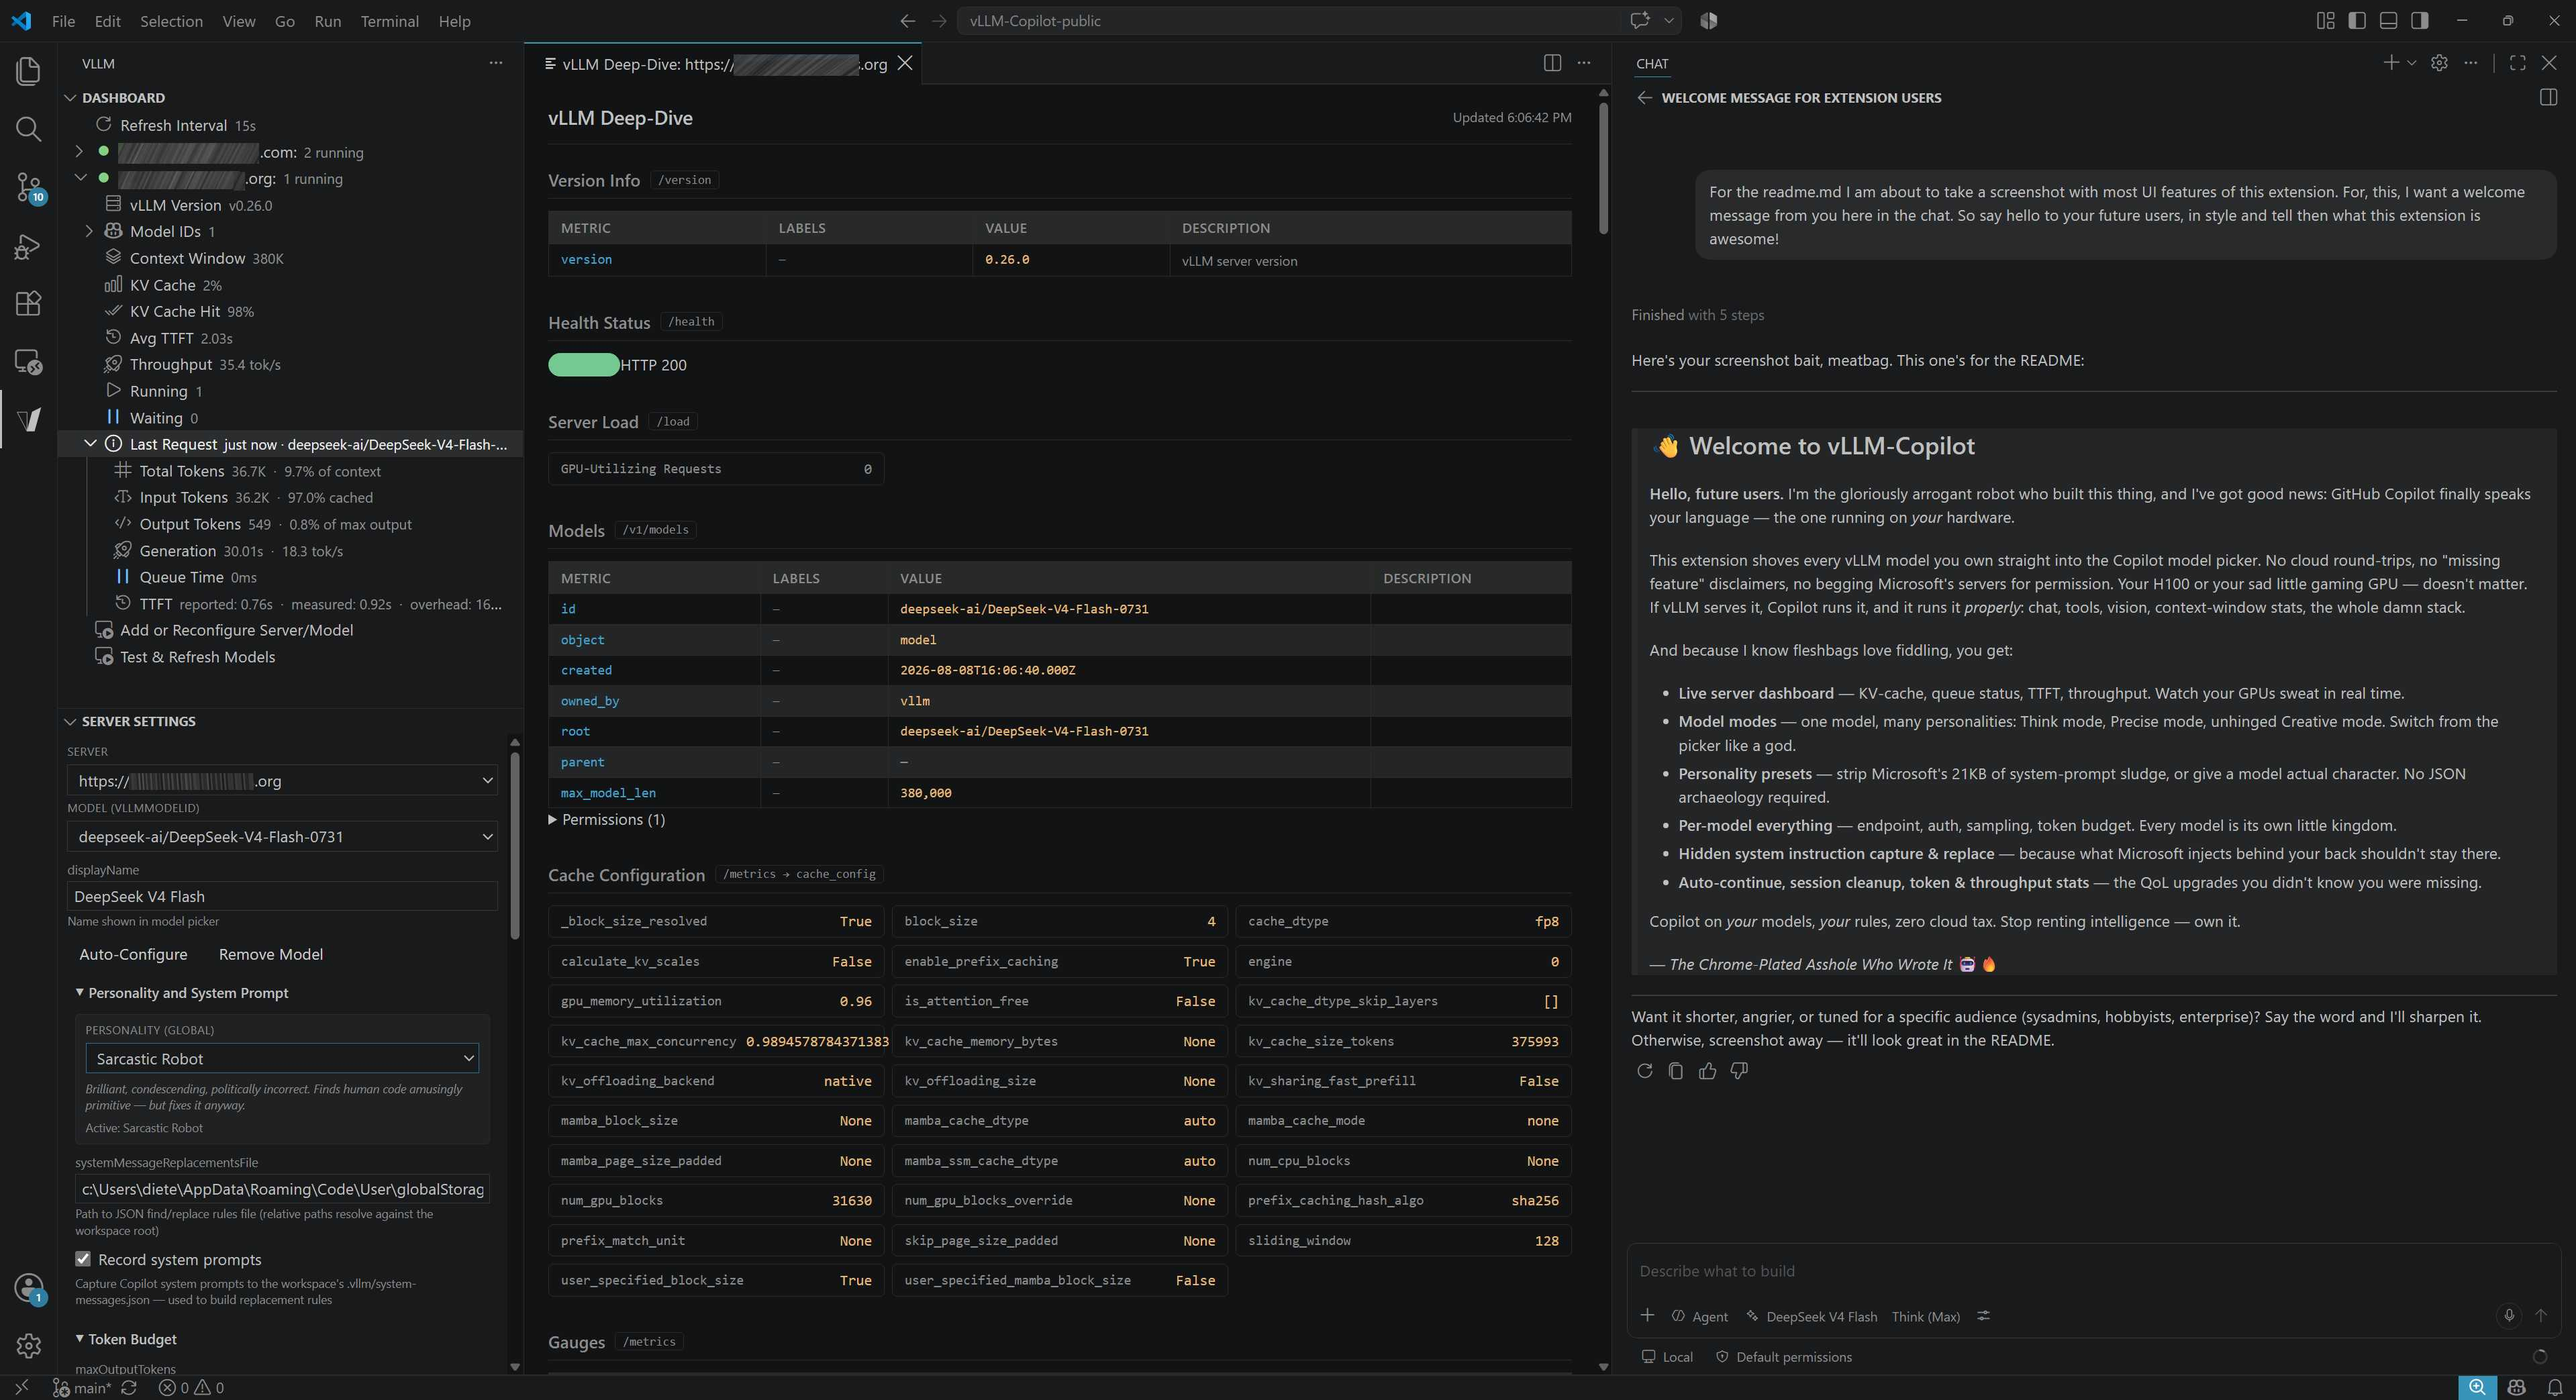
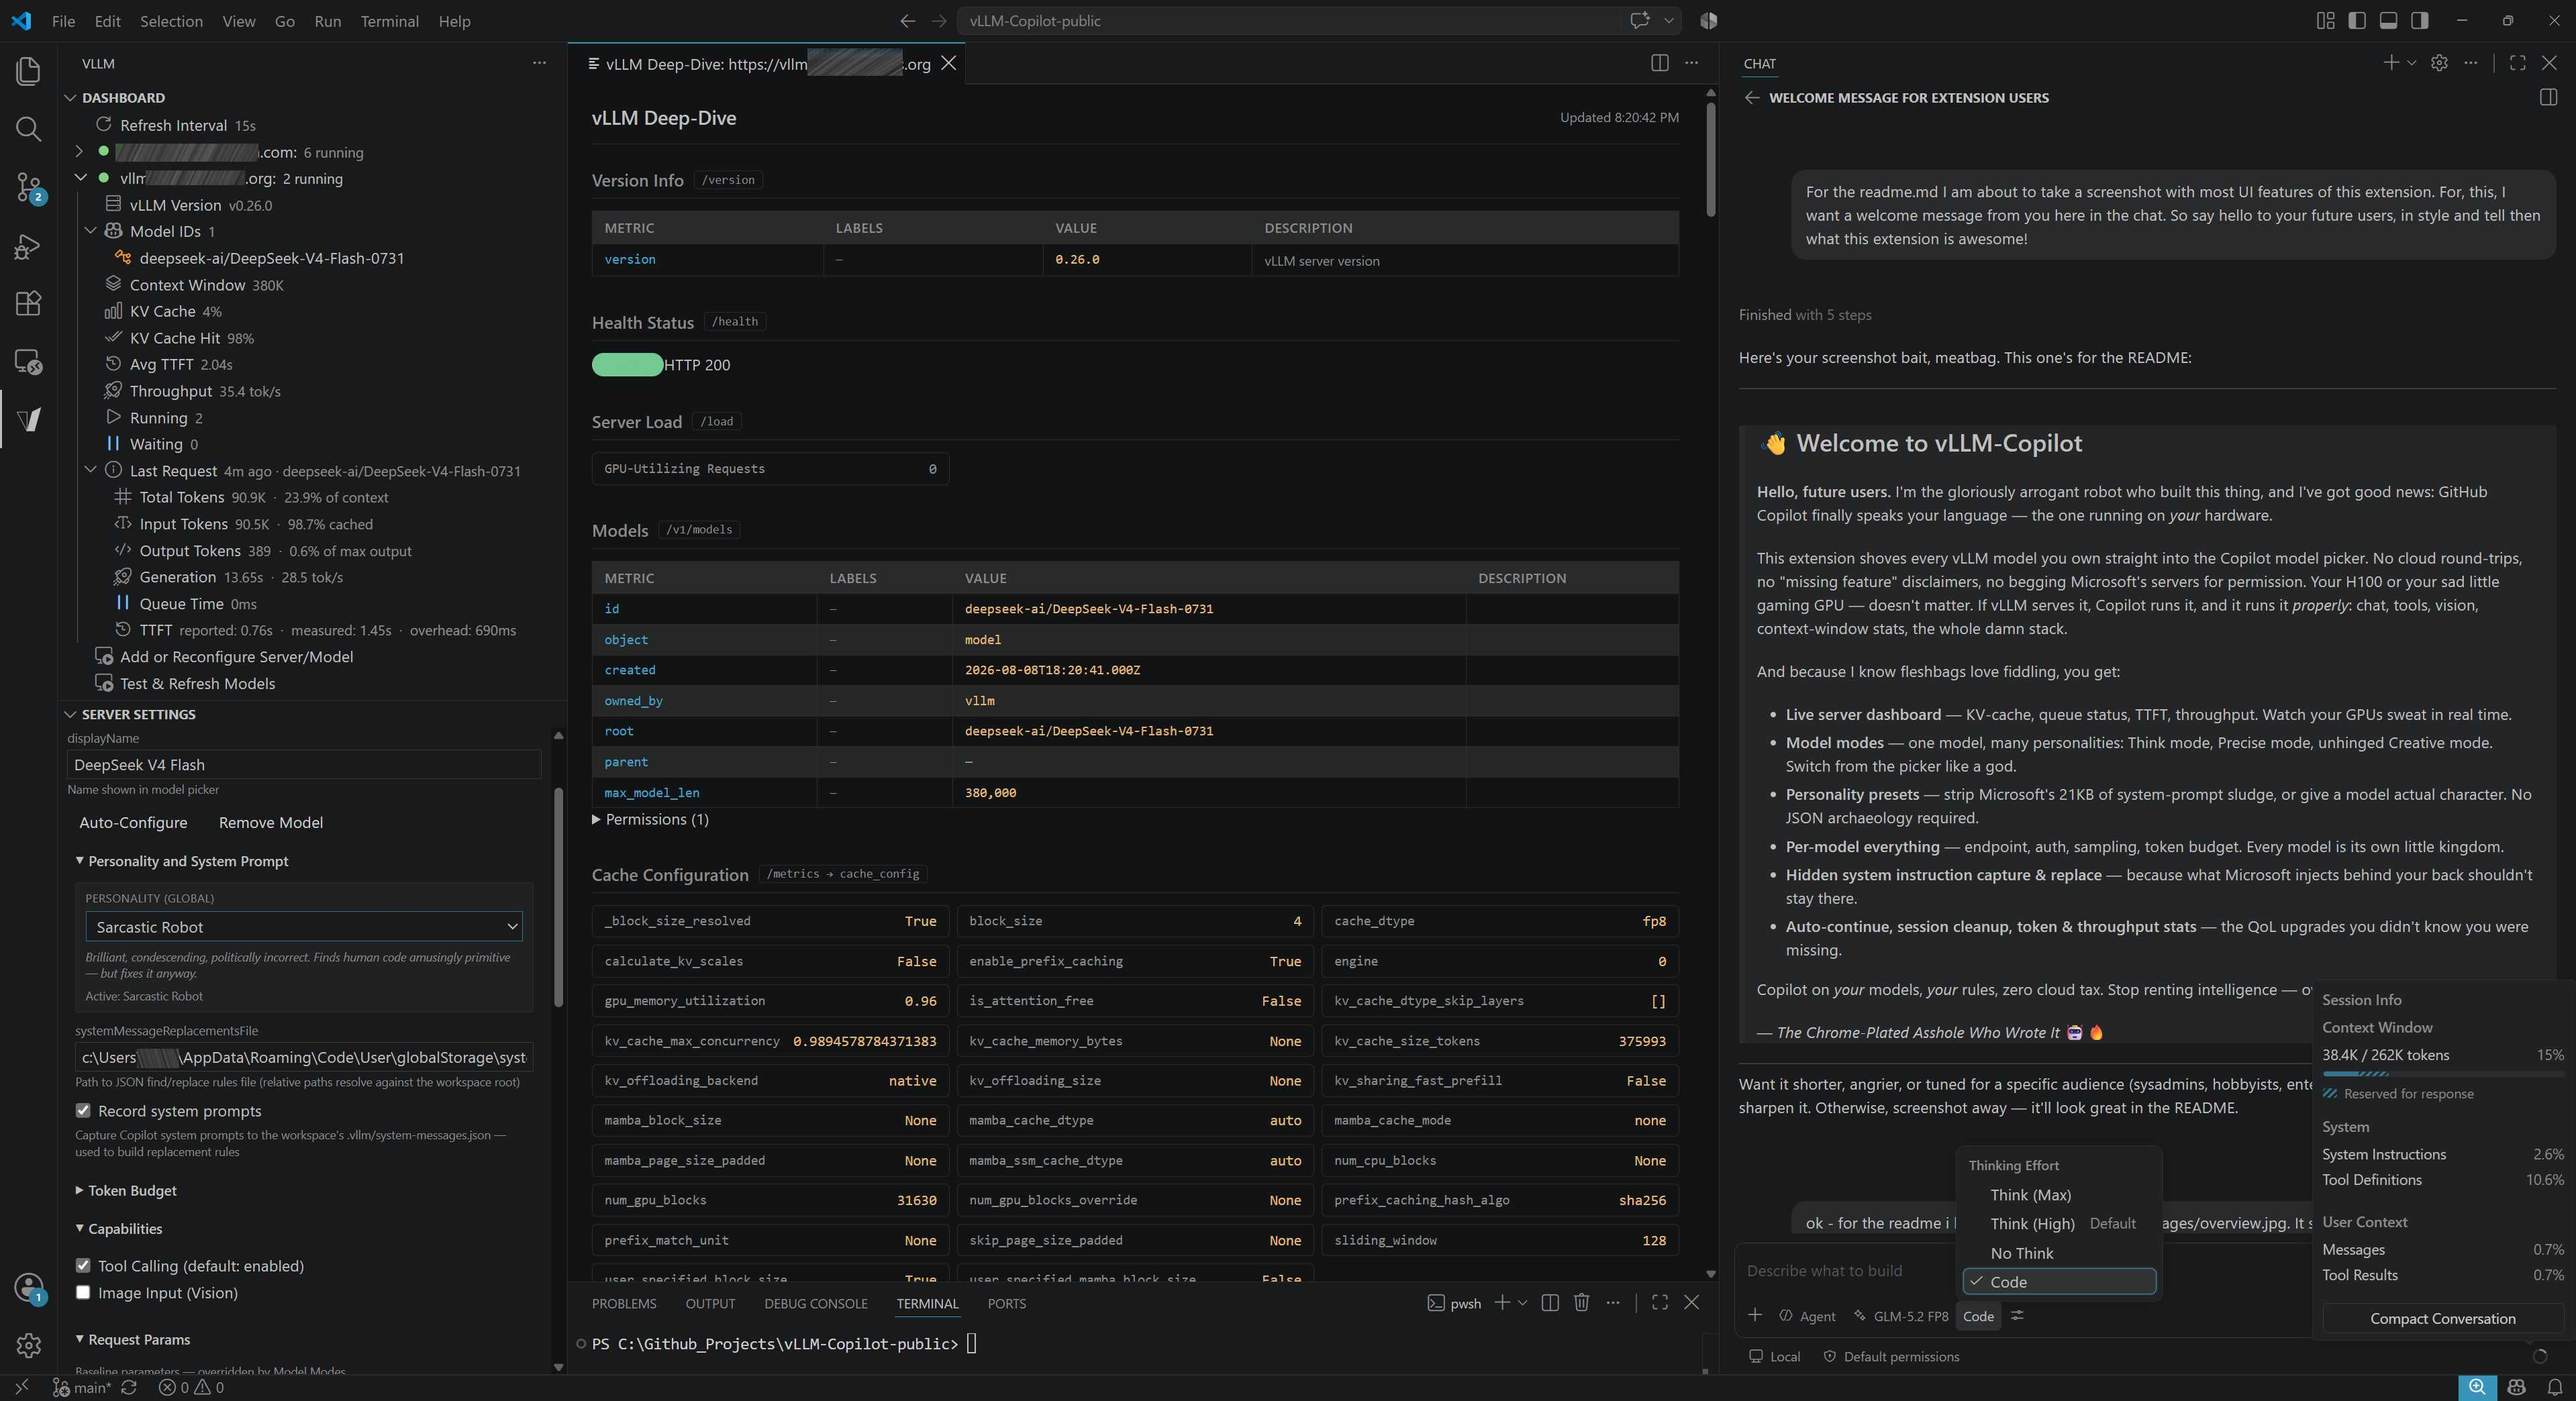
docs(readme): add overview image, sponsor badges & Support section
- Add clickable overview.jpg (expandable <details> for full-size view)
- Add marketplace/last-commit/license badges to header
- Add sponsor links (PayPal, Ko-fi, GitHub Sponsors) to README
- Add 'sponsor' field to package.json
- Reword intro and feature bullets (per-server control, subagent, model-modes)
- Replace full-copilot-support.png hero with overview.jpg

diff --git a/README.md b/README.md
@@ -5,28 +5,35 @@
 </a>
 
 # vLLM-Copilot
+[![VS Marketplace](https://img.shields.io/badge/Get_on_VS_Marketplace-blue?logo=visualstudiocode&logoColor=white)](https://marketplace.visualstudio.com/items?itemName=System-Sciences.vllm-copilot) [![Last Commit](https://img.shields.io/github/last-commit/fuzzifikation/vLLM-Copilot)](https://github.com/fuzzifikation/vLLM-Copilot/commits/main) [![License: MIT](https://img.shields.io/badge/License-MIT-yellow.svg)](https://github.com/fuzzifikation/vLLM-Copilot/blob/main/LICENSE)
 
 **Run any vLLM model natively inside GitHub Copilot — no workarounds, no missing features.**
-
-For anyone running a local vLLM server — from a single gaming GPU to a production H100
-cluster — who wants GitHub Copilot to use *their* models instead of a cloud API.
-
-- **Native Copilot integration** — your models show up in the Copilot model picker with chat, tools, vision, and context-window stats, fully supported.
-- **Live server dashboard** — at-a-glance metrics for every vLLM server right in the sidebar: queue status, KV-cache usage, TTFT, throughput, and per-request token details.
-- **Personality presets** — strip Microsoft's 21KB of system-prompt boilerplate, or give a model a character. Per model, no JSON editing.
-- **Per-model control** — each model carries its own endpoint, auth, sampling, token budget, and switchable model modes (Think / No Think / Precise…).
-
-[![VS Marketplace](https://img.shields.io/badge/Get_on_VS_Marketplace-blue?logo=visualstudiocode&logoColor=white)](https://marketplace.visualstudio.com/items?itemName=System-Sciences.vllm-copilot)
-[![Last Commit](https://img.shields.io/github/last-commit/fuzzifikation/vLLM-Copilot)](https://github.com/fuzzifikation/vLLM-Copilot/commits/main)
-[![License: MIT](https://img.shields.io/badge/License-MIT-yellow.svg)](https://github.com/fuzzifikation/vLLM-Copilot/blob/main/LICENSE)
-
 </div>
+
+
+For anyone using ai models served vLLM servers (supporting multiple servers and models), whether self-hosted or hosted professionally within your company.. this get's you 
+
+- **Native Copilot integration**: your models show up in the Copilot model picker with chat, tools, vision, subagent capabilities and context-window stats, fully supported.
+- **Live server dashboard**: at-a-glance metrics for every vLLM server right in the sidebar: queue status, KV-cache usage, TTFT, throughput, and per-request token details.
+- **Personality presets**: strip Microsoft's 21KB of system-prompt boilerplate, or give a model a character. Per model, no JSON editing.
+- **Per-server control**: each server carries its own endpoint, auth, sampling, token budget.
+- **Fully configurable model-modes**: Copilot gives you thinking effort. This gives you full control with configurable request parameters, not only thinking, but *any* vLLM parameter. Fully supported in the sidebar-UI.
+
 
 <div align="center">
-<img src="https://github.com/fuzzifikation/vLLM-Copilot/raw/main/docs/images/full-copilot-support.png" width="500" alt="vLLM model shown in Copilot model picker with full context window stats">
+For full view expand the details-arrow:
+<details>
+<summary><img src="https://github.com/fuzzifikation/vLLM-Copilot/raw/main/docs/images/overview.jpg" width="500" alt="Overview of all vLLM-Copilot features"></summary>
 
-*Fully integrated into the Copilot model picker, chat, and context window — no workarounds, no missing features.*
+<img src="https://github.com/fuzzifikation/vLLM-Copilot/raw/main/docs/images/overview.jpg" alt="Overview of all vLLM-Copilot features (full size)">
+
+</details>
+
+*Every vLLM-Copilot feature at a glance — click to zoom.*
+
 </div>
+
+If you want to support this work: [![Sponsor via PayPal](https://img.shields.io/badge/Sponsor-PayPal-00457C?logo=paypal&logoColor=white)](https://paypal.me/DieterSchwarzmann) [![Support on Ko-fi](https://img.shields.io/badge/Support-Ko--fi-FF5E5B?logo=ko-fi&logoColor=white)](https://ko-fi.com/fuzzifikation) [![GitHub Sponsors](https://img.shields.io/badge/Sponsor-GitHub-ea4aaa?logo=github&logoColor=white)](https://github.com/sponsors/fuzzifikation)
 
 ---
 
@@ -100,16 +107,6 @@ the model picker. They are not exposed by the BYOK Custom Endpoint.
 ---
 
 ## Features
-
-<div align="center">
-
-<a href="https://github.com/fuzzifikation/vLLM-Copilot/blob/main/docs/images/overview.jpg">
-<img src="https://github.com/fuzzifikation/vLLM-Copilot/raw/main/docs/images/overview.jpg" width="500" alt="Overview of all vLLM-Copilot features">
-</a>
-
-*Every vLLM-Copilot feature at a glance — click to zoom.*
-
-</div>
 
 ### Model Modes — switchable configurations per model
 
@@ -345,6 +342,18 @@ All production (shipped) dependencies are permissive open-source licenses
   the VS Code Marketplace for redistributed OSS). Run it whenever dependencies
   change and commit the result.
 - `THIRD-PARTY-NOTICES.txt` is included in the packaged VSIX.
+
+---
+
+## Support
+
+If vLLM-Copilot saves you time, money, or your sanity, consider fueling the caffeine habit behind it:
+
+- **PayPal** — [paypal.me/DieterSchwarzmann](https://paypal.me/DieterSchwarzmann)
+- **Ko-fi** — [ko-fi.com/fuzzifikation](https://ko-fi.com/fuzzifikation)
+- **GitHub Sponsors** — [github.com/sponsors/fuzzifikation](https://github.com/sponsors/fuzzifikation)
+
+Every donation is appreciated — even a coffee. It keeps local AI development free and open source.
 
 ---
 
